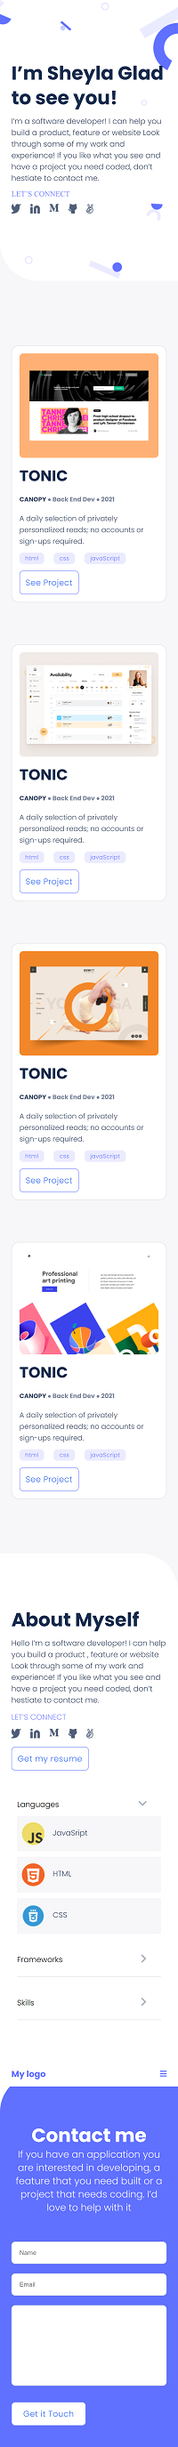
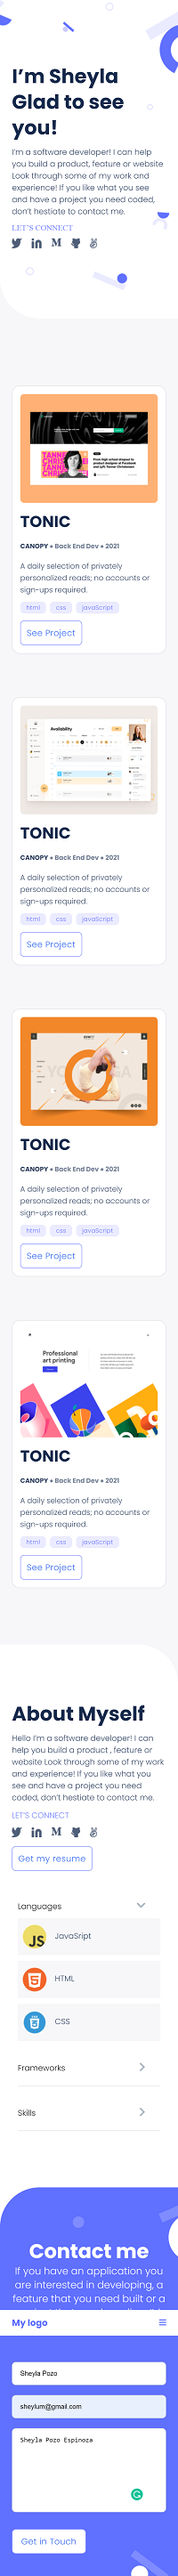
position header initial

diff --git a/assets/style.css b/assets/style.css
@@ -40,7 +40,7 @@ main {
 }
 
 header {
-  position: fixed;
+  position:initial;
   background-color: #fff;
   top: 0;
   width: 100%;
